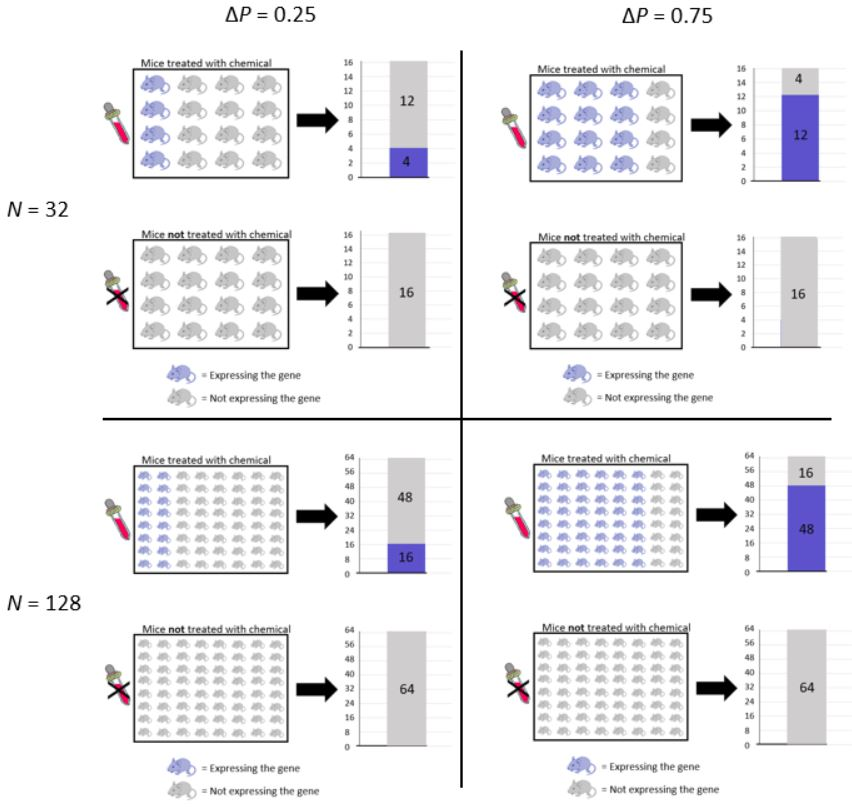
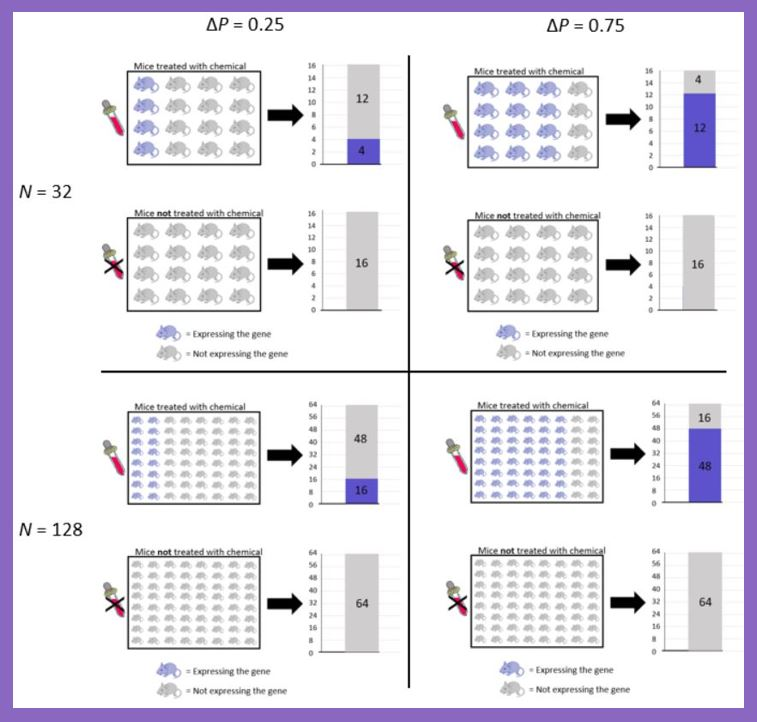
commit
pic change

diff --git a/talk/example/index.html b/talk/example/index.html
@@ -340,7 +340,7 @@
 
 
 <div class="article-header d-xl-none">
-  <div class="featured-image" style="background-image: url('/talk/example/featured_hud161fc3927326e77aa165837bb52817b_86493_800x0_resize_q90_lanczos.jpg');"></div>
+  <div class="featured-image" style="background-image: url('/talk/example/featured_hud161fc3927326e77aa165837bb52817b_77268_800x0_resize_q90_lanczos.jpg');"></div>
   <span class="article-header-caption">Image credit: <strong>Simon Stephan</strong></span>
 </div>
 
@@ -488,7 +488,7 @@
     </div>
     <div class="col-6">
       <div class="split-header-image">
-        <img src="/talk/example/featured_hud161fc3927326e77aa165837bb52817b_86493_680x500_fill_q90_lanczos_right.jpg" itemprop="image" alt="">
+        <img src="/talk/example/featured_hud161fc3927326e77aa165837bb52817b_77268_680x500_fill_q90_lanczos_right.jpg" itemprop="image" alt="">
         <span class="article-header-caption">Image credit: <strong>Simon Stephan</strong></span>
       </div>
     </div>

diff --git a/index.html b/index.html
@@ -772,7 +772,7 @@
     
     
     <a href="/talk/example/">
-      <img src="/talk/example/featured_hud161fc3927326e77aa165837bb52817b_86493_150x0_resize_q90_lanczos.jpg" itemprop="image">
+      <img src="/talk/example/featured_hud161fc3927326e77aa165837bb52817b_77268_150x0_resize_q90_lanczos.jpg" itemprop="image">
     </a>
     
   </div>

diff --git a/talk/index.html b/talk/index.html
@@ -466,7 +466,7 @@
     
     
     <a href="/talk/example/">
-      <img src="/talk/example/featured_hud161fc3927326e77aa165837bb52817b_86493_150x0_resize_q90_lanczos.jpg" itemprop="image">
+      <img src="/talk/example/featured_hud161fc3927326e77aa165837bb52817b_77268_150x0_resize_q90_lanczos.jpg" itemprop="image">
     </a>
     
   </div>
